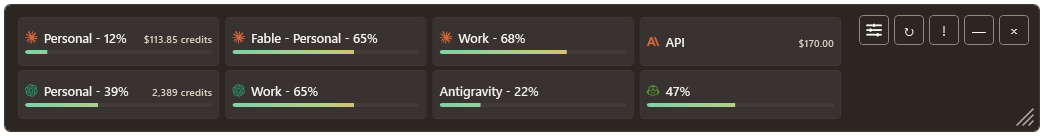
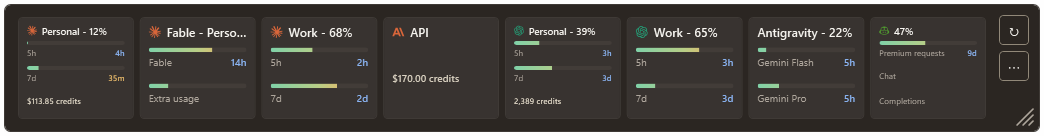
feat(overlay): compact mode uses a two-button rail with a menu
The row of 5 buttons reserved about 200 px and cut off card titles.
Refresh stays one click. Options, Logs, Minimize, and Hide move to a menu.

diff --git a/Views/UsageOverlayWindow.xaml b/Views/UsageOverlayWindow.xaml
@@ -1171,35 +1171,35 @@
                 </Grid>
 
                 <StackPanel x:Name="CompactButtonsPanel"
-                            Orientation="Horizontal"
+                            Orientation="Vertical"
                             HorizontalAlignment="Right"
                             VerticalAlignment="Top"
                             Style="{StaticResource CompactButtonsElementStyle}"
                             SizeChanged="CompactButtonsPanelOnSizeChanged">
-                    <Button Style="{StaticResource IconButtonStyle}"
-                            ToolTip="Options"
-                            Click="SettingsButtonOnClick">
-                        <Image Width="16"
-                               Height="16"
-                               Source="{StaticResource OptionsSlidersIcon}"
-                               Stretch="Uniform" />
-                    </Button>
                     <Button Content="↻"
+                            Margin="0"
                             Style="{StaticResource IconButtonStyle}"
                             ToolTip="Refresh now"
                             Click="ReloadButtonOnClick" />
-                    <Button Content="!"
+                    <Button Content="⋯"
+                            Margin="0,6,0,0"
                             Style="{StaticResource IconButtonStyle}"
-                            ToolTip="Logs"
-                            Click="LogsButtonOnClick" />
-                    <Button Content="—"
-                            Style="{StaticResource IconButtonStyle}"
-                            ToolTip="Minimize"
-                            Click="MinimizeButtonOnClick" />
-                    <Button Content="×"
-                            Style="{StaticResource IconButtonStyle}"
-                            ToolTip="Hide"
-                            Click="HideButtonOnClick" />
+                            ToolTip="Menu"
+                            Click="CompactMenuButtonOnClick">
+                        <Button.ContextMenu>
+                            <ContextMenu Placement="Bottom">
+                                <MenuItem Header="Options"
+                                          Click="SettingsButtonOnClick" />
+                                <MenuItem Header="Logs"
+                                          Click="LogsButtonOnClick" />
+                                <Separator />
+                                <MenuItem Header="Minimize"
+                                          Click="MinimizeButtonOnClick" />
+                                <MenuItem Header="Hide"
+                                          Click="HideButtonOnClick" />
+                            </ContextMenu>
+                        </Button.ContextMenu>
+                    </Button>
                 </StackPanel>
 
                 <Thumb HorizontalAlignment="Right"

diff --git a/Views/UsageOverlayWindow.xaml.cs b/Views/UsageOverlayWindow.xaml.cs
@@ -17,7 +17,7 @@ public partial class UsageOverlayWindow : Window
     private const string FullDisplayMode = "Full";
     private const string CompactDisplayMode = "Compact";
     private const string MiniDisplayMode = "Mini";
-    private const double CompactButtonsFallbackWidth = 175;
+    private const double CompactButtonsFallbackWidth = 30;
     private const double CompactButtonsGap = 10;
     private const uint SwpNoSize = 0x0001;
     private const uint SwpNoMove = 0x0002;
@@ -314,6 +314,15 @@ public partial class UsageOverlayWindow : Window
     private void LogsButtonOnClick(object sender, RoutedEventArgs e)
     {
         LogsRequested?.Invoke(this, EventArgs.Empty);
+    }
+
+    private void CompactMenuButtonOnClick(object sender, RoutedEventArgs e)
+    {
+        if (sender is FrameworkElement { ContextMenu: { } menu } button)
+        {
+            menu.PlacementTarget = button;
+            menu.IsOpen = true;
+        }
     }
 
     private void HeaderOnMouseLeftButtonDown(object sender, MouseButtonEventArgs e)

diff --git a/CHANGELOG.md b/CHANGELOG.md
@@ -10,6 +10,8 @@ which change gets which increment.
 
 ### Changed
 
+- Compact mode shows a narrow rail of 2 buttons instead of a row of 5: Refresh on top, and a `⋯`
+  menu with Options, Logs, Minimize, and Hide. The cards get about 160 px more width.
 - Session and Week bars show a white tick at how much of the 5h session or the 7d week has
   passed. Below the bar are only the time left and a pace icon: a level arrow on pace, an amber
   rising arrow when usage is more than 10 points ahead of the time passed. Hover for the words.
